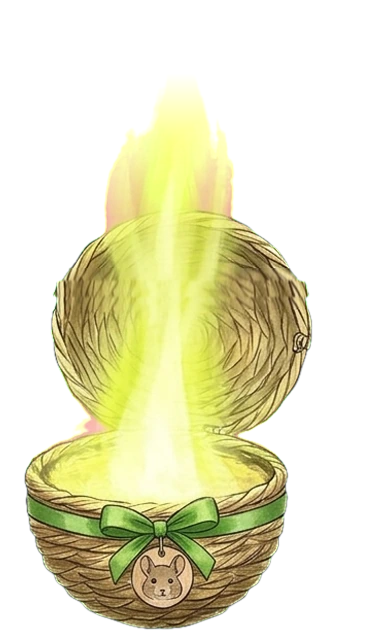
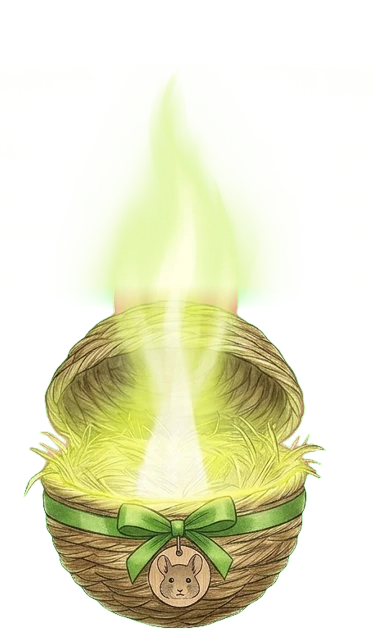
Redrawn fully-open ball frame

diff --git a/docs/index.html b/docs/index.html
@@ -14,10 +14,10 @@
 <link rel="preconnect" href="https://fonts.googleapis.com">
 <link rel="preconnect" href="https://fonts.gstatic.com" crossorigin>
 <link href="https://fonts.googleapis.com/css2?family=Zen+Maru+Gothic:wght@400;500;700&display=swap" rel="stylesheet">
-<link rel="stylesheet" href="style.css?v=202610262201">
+<link rel="stylesheet" href="style.css?v=202610262208">
 <script>if (/[?&]resume/.test(location.search)) document.documentElement.classList.add('resuming');</script>
 <style>.resuming #title{display:none!important}.resuming #fade{opacity:1!important;transition:none}</style>
-<script type="importmap">{"imports":{"three":"./vendor/three.module.js","three/addons/":"./vendor/addons/","./js/audio.js":"./js/audio.js?v=202610262201","./js/battle.js":"./js/battle.js?v=202610262201","./js/battlesky.js":"./js/battlesky.js?v=202610262201","./js/bgm.js":"./js/bgm.js?v=202610262201","./js/casino.js":"./js/casino.js?v=202610262201","./js/data.js":"./js/data.js?v=202610262201","./js/field.js":"./js/field.js?v=202610262201","./js/game.js":"./js/game.js?v=202610262201","./js/input.js":"./js/input.js?v=202610262201","./js/mapmgr.js":"./js/mapmgr.js?v=202610262201","./js/monsters_extra.js":"./js/monsters_extra.js?v=202610262201","./js/pasture.js":"./js/pasture.js?v=202610262201","./js/season.js":"./js/season.js?v=202610262201","./js/skills_extra.js":"./js/skills_extra.js?v=202610262201","./js/state.js":"./js/state.js?v=202610262201","./js/status.js":"./js/status.js?v=202610262201","./js/swimfish.js":"./js/swimfish.js?v=202610262201","./js/ui.js":"./js/ui.js?v=202610262201","./js/world.js":"./js/world.js?v=202610262201"}}</script>
+<script type="importmap">{"imports":{"three":"./vendor/three.module.js","three/addons/":"./vendor/addons/","./js/audio.js":"./js/audio.js?v=202610262208","./js/battle.js":"./js/battle.js?v=202610262208","./js/battlesky.js":"./js/battlesky.js?v=202610262208","./js/bgm.js":"./js/bgm.js?v=202610262208","./js/casino.js":"./js/casino.js?v=202610262208","./js/data.js":"./js/data.js?v=202610262208","./js/field.js":"./js/field.js?v=202610262208","./js/game.js":"./js/game.js?v=202610262208","./js/input.js":"./js/input.js?v=202610262208","./js/mapmgr.js":"./js/mapmgr.js?v=202610262208","./js/monsters_extra.js":"./js/monsters_extra.js?v=202610262208","./js/pasture.js":"./js/pasture.js?v=202610262208","./js/season.js":"./js/season.js?v=202610262208","./js/skills_extra.js":"./js/skills_extra.js?v=202610262208","./js/state.js":"./js/state.js?v=202610262208","./js/status.js":"./js/status.js?v=202610262208","./js/swimfish.js":"./js/swimfish.js?v=202610262208","./js/ui.js":"./js/ui.js?v=202610262208","./js/world.js":"./js/world.js?v=202610262208"}}</script>
 <script>
 /* 不具合の原因を見つけやすくする: エラーが出たら画面の上に小さく表示(タップで消える) */
 (function () { function show(msg) { try { var d = document.getElementById('errbox'); if (!d) { d = document.createElement('div'); d.id = 'errbox'; d.style.cssText = 'position:fixed;left:6px;right:6px;top:6px;z-index:99999;background:#7a1f1f;color:#fff;font:12px/1.4 monospace;padding:8px 10px;border-radius:8px;max-height:40vh;overflow:auto;white-space:pre-wrap'; d.onclick = function () { d.remove(); }; document.body.appendChild(d); } d.textContent += msg + '\n'; } catch (e) {} }
@@ -79,6 +79,6 @@ setTimeout(function () { var l = document.getElementById('loading'); if (l && !l
   </div>
   <div id="loading"><div class="lbar"><i></i></div><span>よみこみ中...</span></div>
 </div>
-<script type="module" src="js/game.js?v=202610262201"></script>
+<script type="module" src="js/game.js?v=202610262208"></script>
 </body>
 </html>

diff --git a/docs/field.html b/docs/field.html
@@ -14,8 +14,8 @@
 <link rel="preconnect" href="https://fonts.googleapis.com">
 <link rel="preconnect" href="https://fonts.gstatic.com" crossorigin>
 <link href="https://fonts.googleapis.com/css2?family=Zen+Maru+Gothic:wght@400;500;700&display=swap" rel="stylesheet">
-<link rel="stylesheet" href="style.css?v=202610262201">
-<script type="importmap">{"imports":{"three":"./vendor/three.module.js","three/addons/":"./vendor/addons/","./js/audio.js":"./js/audio.js?v=202610262201","./js/battle.js":"./js/battle.js?v=202610262201","./js/battlesky.js":"./js/battlesky.js?v=202610262201","./js/bgm.js":"./js/bgm.js?v=202610262201","./js/casino.js":"./js/casino.js?v=202610262201","./js/data.js":"./js/data.js?v=202610262201","./js/field.js":"./js/field.js?v=202610262201","./js/game.js":"./js/game.js?v=202610262201","./js/input.js":"./js/input.js?v=202610262201","./js/mapmgr.js":"./js/mapmgr.js?v=202610262201","./js/monsters_extra.js":"./js/monsters_extra.js?v=202610262201","./js/pasture.js":"./js/pasture.js?v=202610262201","./js/season.js":"./js/season.js?v=202610262201","./js/skills_extra.js":"./js/skills_extra.js?v=202610262201","./js/state.js":"./js/state.js?v=202610262201","./js/status.js":"./js/status.js?v=202610262201","./js/swimfish.js":"./js/swimfish.js?v=202610262201","./js/ui.js":"./js/ui.js?v=202610262201","./js/world.js":"./js/world.js?v=202610262201"}}</script>
+<link rel="stylesheet" href="style.css?v=202610262208">
+<script type="importmap">{"imports":{"three":"./vendor/three.module.js","three/addons/":"./vendor/addons/","./js/audio.js":"./js/audio.js?v=202610262208","./js/battle.js":"./js/battle.js?v=202610262208","./js/battlesky.js":"./js/battlesky.js?v=202610262208","./js/bgm.js":"./js/bgm.js?v=202610262208","./js/casino.js":"./js/casino.js?v=202610262208","./js/data.js":"./js/data.js?v=202610262208","./js/field.js":"./js/field.js?v=202610262208","./js/game.js":"./js/game.js?v=202610262208","./js/input.js":"./js/input.js?v=202610262208","./js/mapmgr.js":"./js/mapmgr.js?v=202610262208","./js/monsters_extra.js":"./js/monsters_extra.js?v=202610262208","./js/pasture.js":"./js/pasture.js?v=202610262208","./js/season.js":"./js/season.js?v=202610262208","./js/skills_extra.js":"./js/skills_extra.js?v=202610262208","./js/state.js":"./js/state.js?v=202610262208","./js/status.js":"./js/status.js?v=202610262208","./js/swimfish.js":"./js/swimfish.js?v=202610262208","./js/ui.js":"./js/ui.js?v=202610262208","./js/world.js":"./js/world.js?v=202610262208"}}</script>
 <script>
 /* 不具合の原因を見つけやすくする: エラーが出たら画面の上に小さく表示(タップで消える) */
 (function () { function show(msg) { try { var d = document.getElementById('errbox'); if (!d) { d = document.createElement('div'); d.id = 'errbox'; d.style.cssText = 'position:fixed;left:6px;right:6px;top:6px;z-index:99999;background:#7a1f1f;color:#fff;font:12px/1.4 monospace;padding:8px 10px;border-radius:8px;max-height:40vh;overflow:auto;white-space:pre-wrap'; d.onclick = function () { d.remove(); }; document.body.appendChild(d); } d.textContent += msg + '\n'; } catch (e) {} }
@@ -64,6 +64,6 @@
 
 <div id="loading2" style="position:fixed;inset:0;z-index:50;display:grid;place-items:center;background:#2c1f14;color:#f4ead2;font-size:16px;transition:opacity .5s">よみこみ中...</div>
 <style>#loading2.done{opacity:0;pointer-events:none}</style>
-<script type="module" src="js/field.js?v=202610262201"></script>
+<script type="module" src="js/field.js?v=202610262208"></script>
 </body>
 </html>
